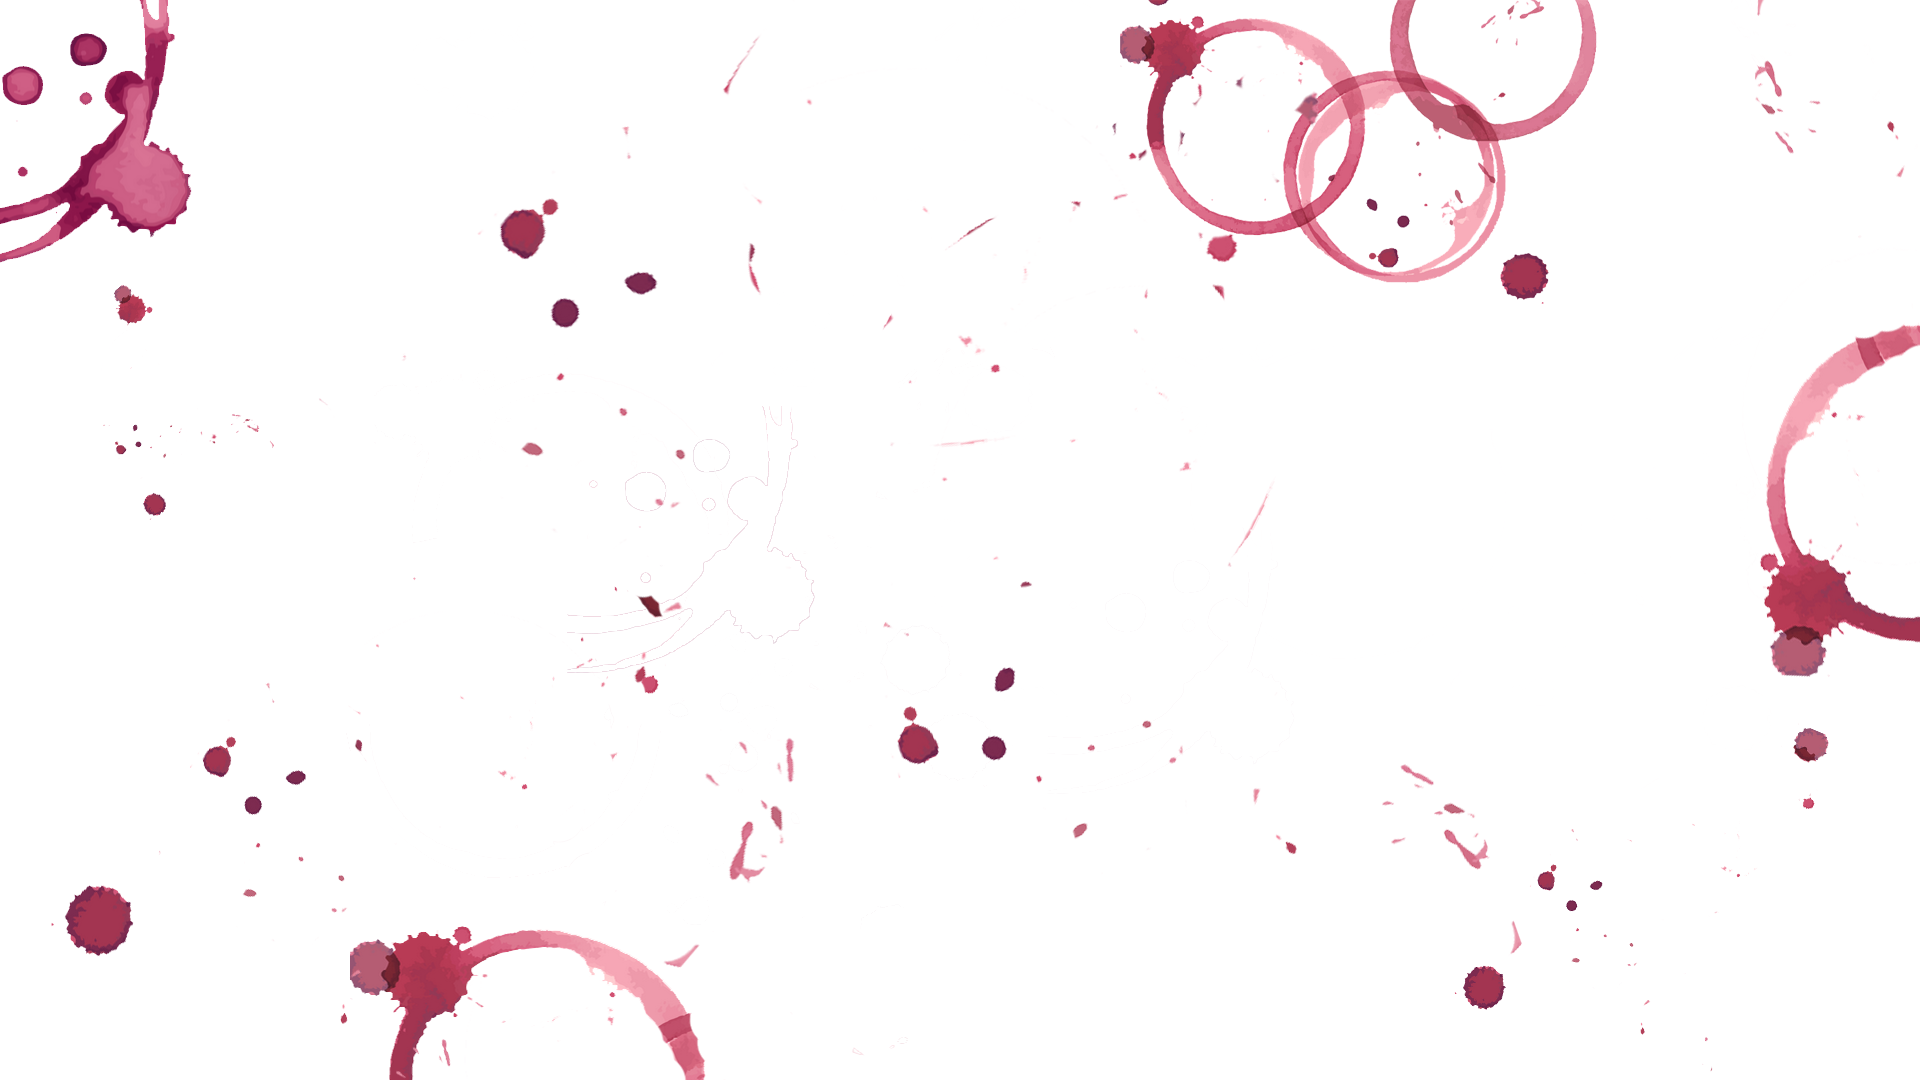
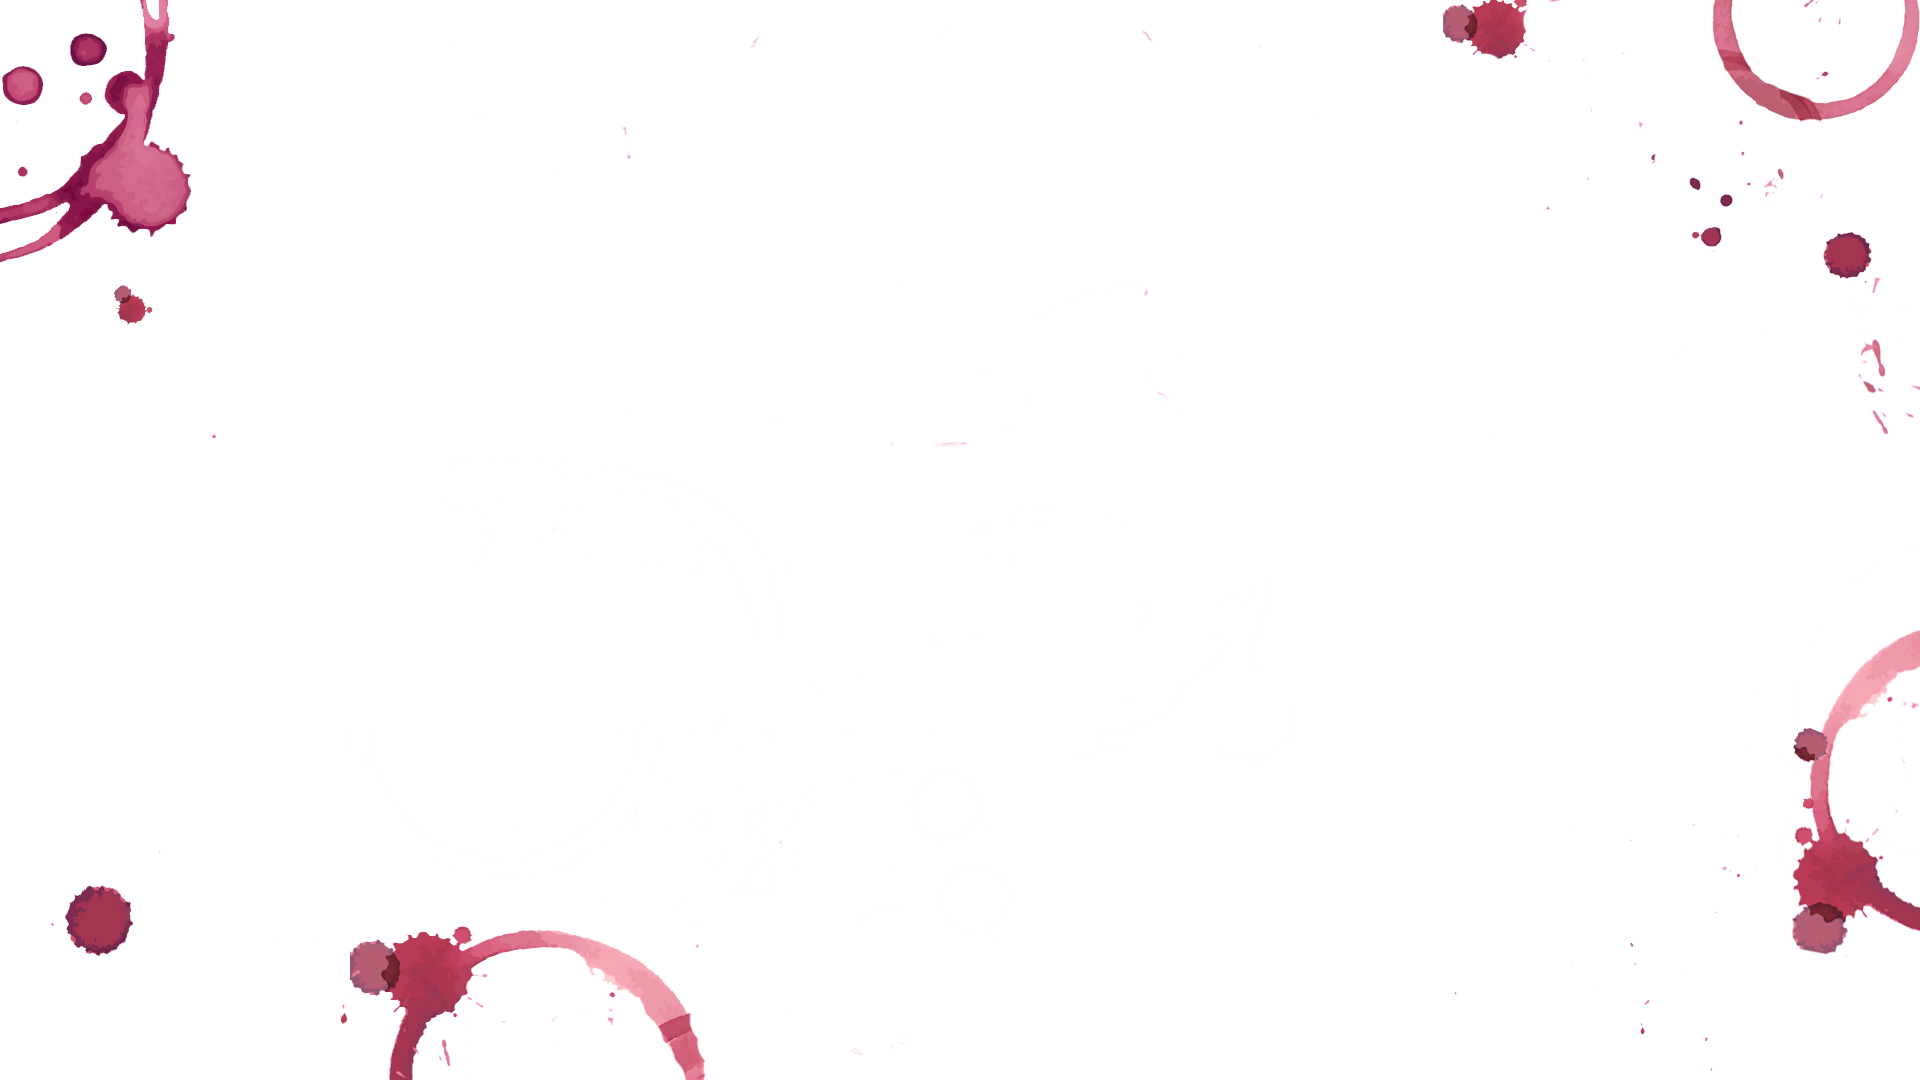
make starter of searchbar

diff --git a/src/components/Searchbar.jsx b/src/components/Searchbar.jsx
@@ -1,0 +1,30 @@
+import React, { useState } from 'react';
+import PropTypes from 'prop-types';
+import './Searchbar.css';
+
+function SearchBar({ getQuery }) {
+  const [text, setText] = useState('');
+
+  const onChange = (q) => {
+    setText(q);
+    getQuery(q);
+  };
+  return (
+    <div className="searchBar">
+      <input
+        type="search"
+        className="form-control"
+        placeholder="Rechercher votre bouteille"
+        results="0"
+        value={text}
+        onChange={() => onChange()}
+      />
+    </div>
+  );
+}
+
+SearchBar.propTypes = {
+  getQuery: PropTypes.func.isRequired,
+};
+
+export default SearchBar;

diff --git a/src/App.jsx b/src/App.jsx
@@ -5,13 +5,15 @@ import { BrowserRouter } from 'react-router-dom';
 import Header from './components/Header';
 import Navbar from './components/Navbar';
 import { LoginDataProvider } from './contexts/LoginDataContext';
+import SearchBar from './components/Searchbar';
 
 function App() {
   return (
     <LoginDataProvider>
       <BrowserRouter>
-        <Header />
         <Navbar />
+        <Header />
+        <SearchBar />
       </BrowserRouter>
     </LoginDataProvider>
   );

diff --git a/src/components/Header.css b/src/components/Header.css
@@ -24,17 +24,19 @@
     background-size: cover;
 }
 .link {
-    color: #665f5e;
+    color: white;
     padding: 0.25rem 0.5rem;
     box-shadow: 0 0 0 2px black;
     border-radius: 5px;
+    margin: 0.5rem;
+    background-color: black;
 }
 .link:hover {
     color: #c49e34;
 }
 nav {
     display: flex;
-    justify-content: space-evenly;
+    justify-content: flex-end;
     padding: 1rem;
 }
 h1 {

diff --git a/src/components/Navbar.jsx b/src/components/Navbar.jsx
@@ -1,13 +1,11 @@
 import React from 'react';
 import { NavLink } from 'react-router-dom';
-
 import { useLoginData } from '../contexts/LoginDataContext';
 
 const link = (path, text) => <NavLink to={path} exact activeClassName="active" className="link">{text}</NavLink>;
 
 function Navbar() {
   const { loginData } = useLoginData();
-
   return (
     <nav>
       {link('/', 'Accueil')}

diff --git a/src/App.css b/src/App.css
@@ -1,3 +1,3 @@
 body {
-  background-image: url(/src/components/assets/testbg.png);
+  background-image: url(/src/components/assets/bg-wine.png);
 }

diff --git a/src/components/Searchbar.css b/src/components/Searchbar.css
@@ -1,0 +1,7 @@
+input{
+    display: flex;
+    margin: auto;
+    margin-top: 2vh;
+    font-size: 1.5rem;
+    border: 1px solid black;
+}
